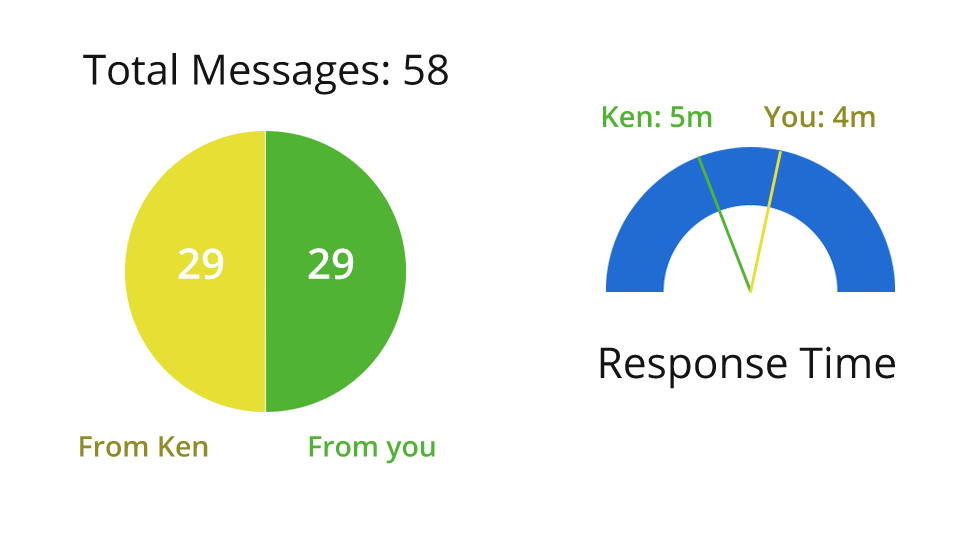
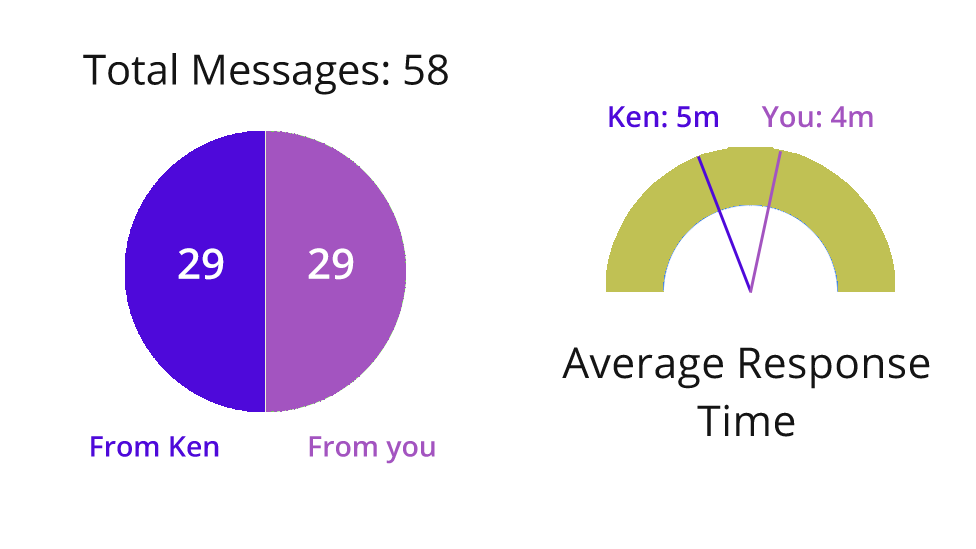
aesthetic updates

diff --git a/public/css/FIREtxt.css b/public/css/FIREtxt.css
@@ -47,8 +47,17 @@ h1 {
   padding-top: 150px;
 }
 
+.friendIconDiv {
+  max-width: 15%;
+}
+
+.friendIcon {
+    border-radius: 50%;
+    max-width: 50px;
+    max-height: 50px;
+}
+
 .friendName {
-  font-size: 1.3em;
   font-weight: bold;
   text-align: left;
   line-height: 0;
@@ -59,7 +68,6 @@ h1 {
 
 .preview {
   text-align: left;
-  padding-left: 15px;
   line-height: 1;
   color: black;
   font-weight: 300;
@@ -79,27 +87,38 @@ h1 {
   font-weight: 300;
 }
 
+.searchbarPanel {
+  padding-top: 5px;
+  width: 100%;
+}
+
+.searchIcon {
+  width: 5%;
+  margin: 0% 0% 0% 17%;
+}
+
 .searchbarField {
   text-align: center;
   border-radius: 10px;
   border: none;
   font-family: 'Open Sans', sans-serif;
   font-weight: 300;
-  width: 250px;
-  margin: 7px 5px 5px 5px;
+  width: 55%;
+  margin: 7px 13% 7px 0%;
+  padding: 0;
 }
 
 .myNavbar {
   top: 0;
   position: fixed;
   width: 100%;
-  background-color: #dedede;
-  box-shadow: 0px 2px 2px #dedede;
+  background-color: #bddcd8;
+  box-shadow: 0px 2px 2px 2px #bddcd8;
   z-index: 1;
 }
 
 .homeHeader {
-  background-color: white;
+  background-color: #cdeee8;
   padding: 30px 0px 20px 0px;
 }
 
@@ -157,10 +176,14 @@ h1 {
   bottom: 0;
   position: fixed;
   width: 100%;
-  background-color: #dedede;
-  box-shadow: 0px 0px 2px 2px #dedede;
+  background-color: #bddcd8;
+  box-shadow: 0px 0px 2px 2px #bddcd8;
   height: 35%;
   z-index: 1;
+}
+
+.analyticsImg {
+  max-height: 90%;
 }
 
 .stat {
@@ -170,14 +193,14 @@ h1 {
   line-height: 1.25;
   text-align: left;
   float: left;
-  width: 55%
+  width: 55%;
 }
 
 .value {
   margin: 5% 8% 0% 7%;
   float: right;
   text-align: right;
-  width: 15%
+  width: 15%;
 }
 
 ::-webkit-scrollbar { 
